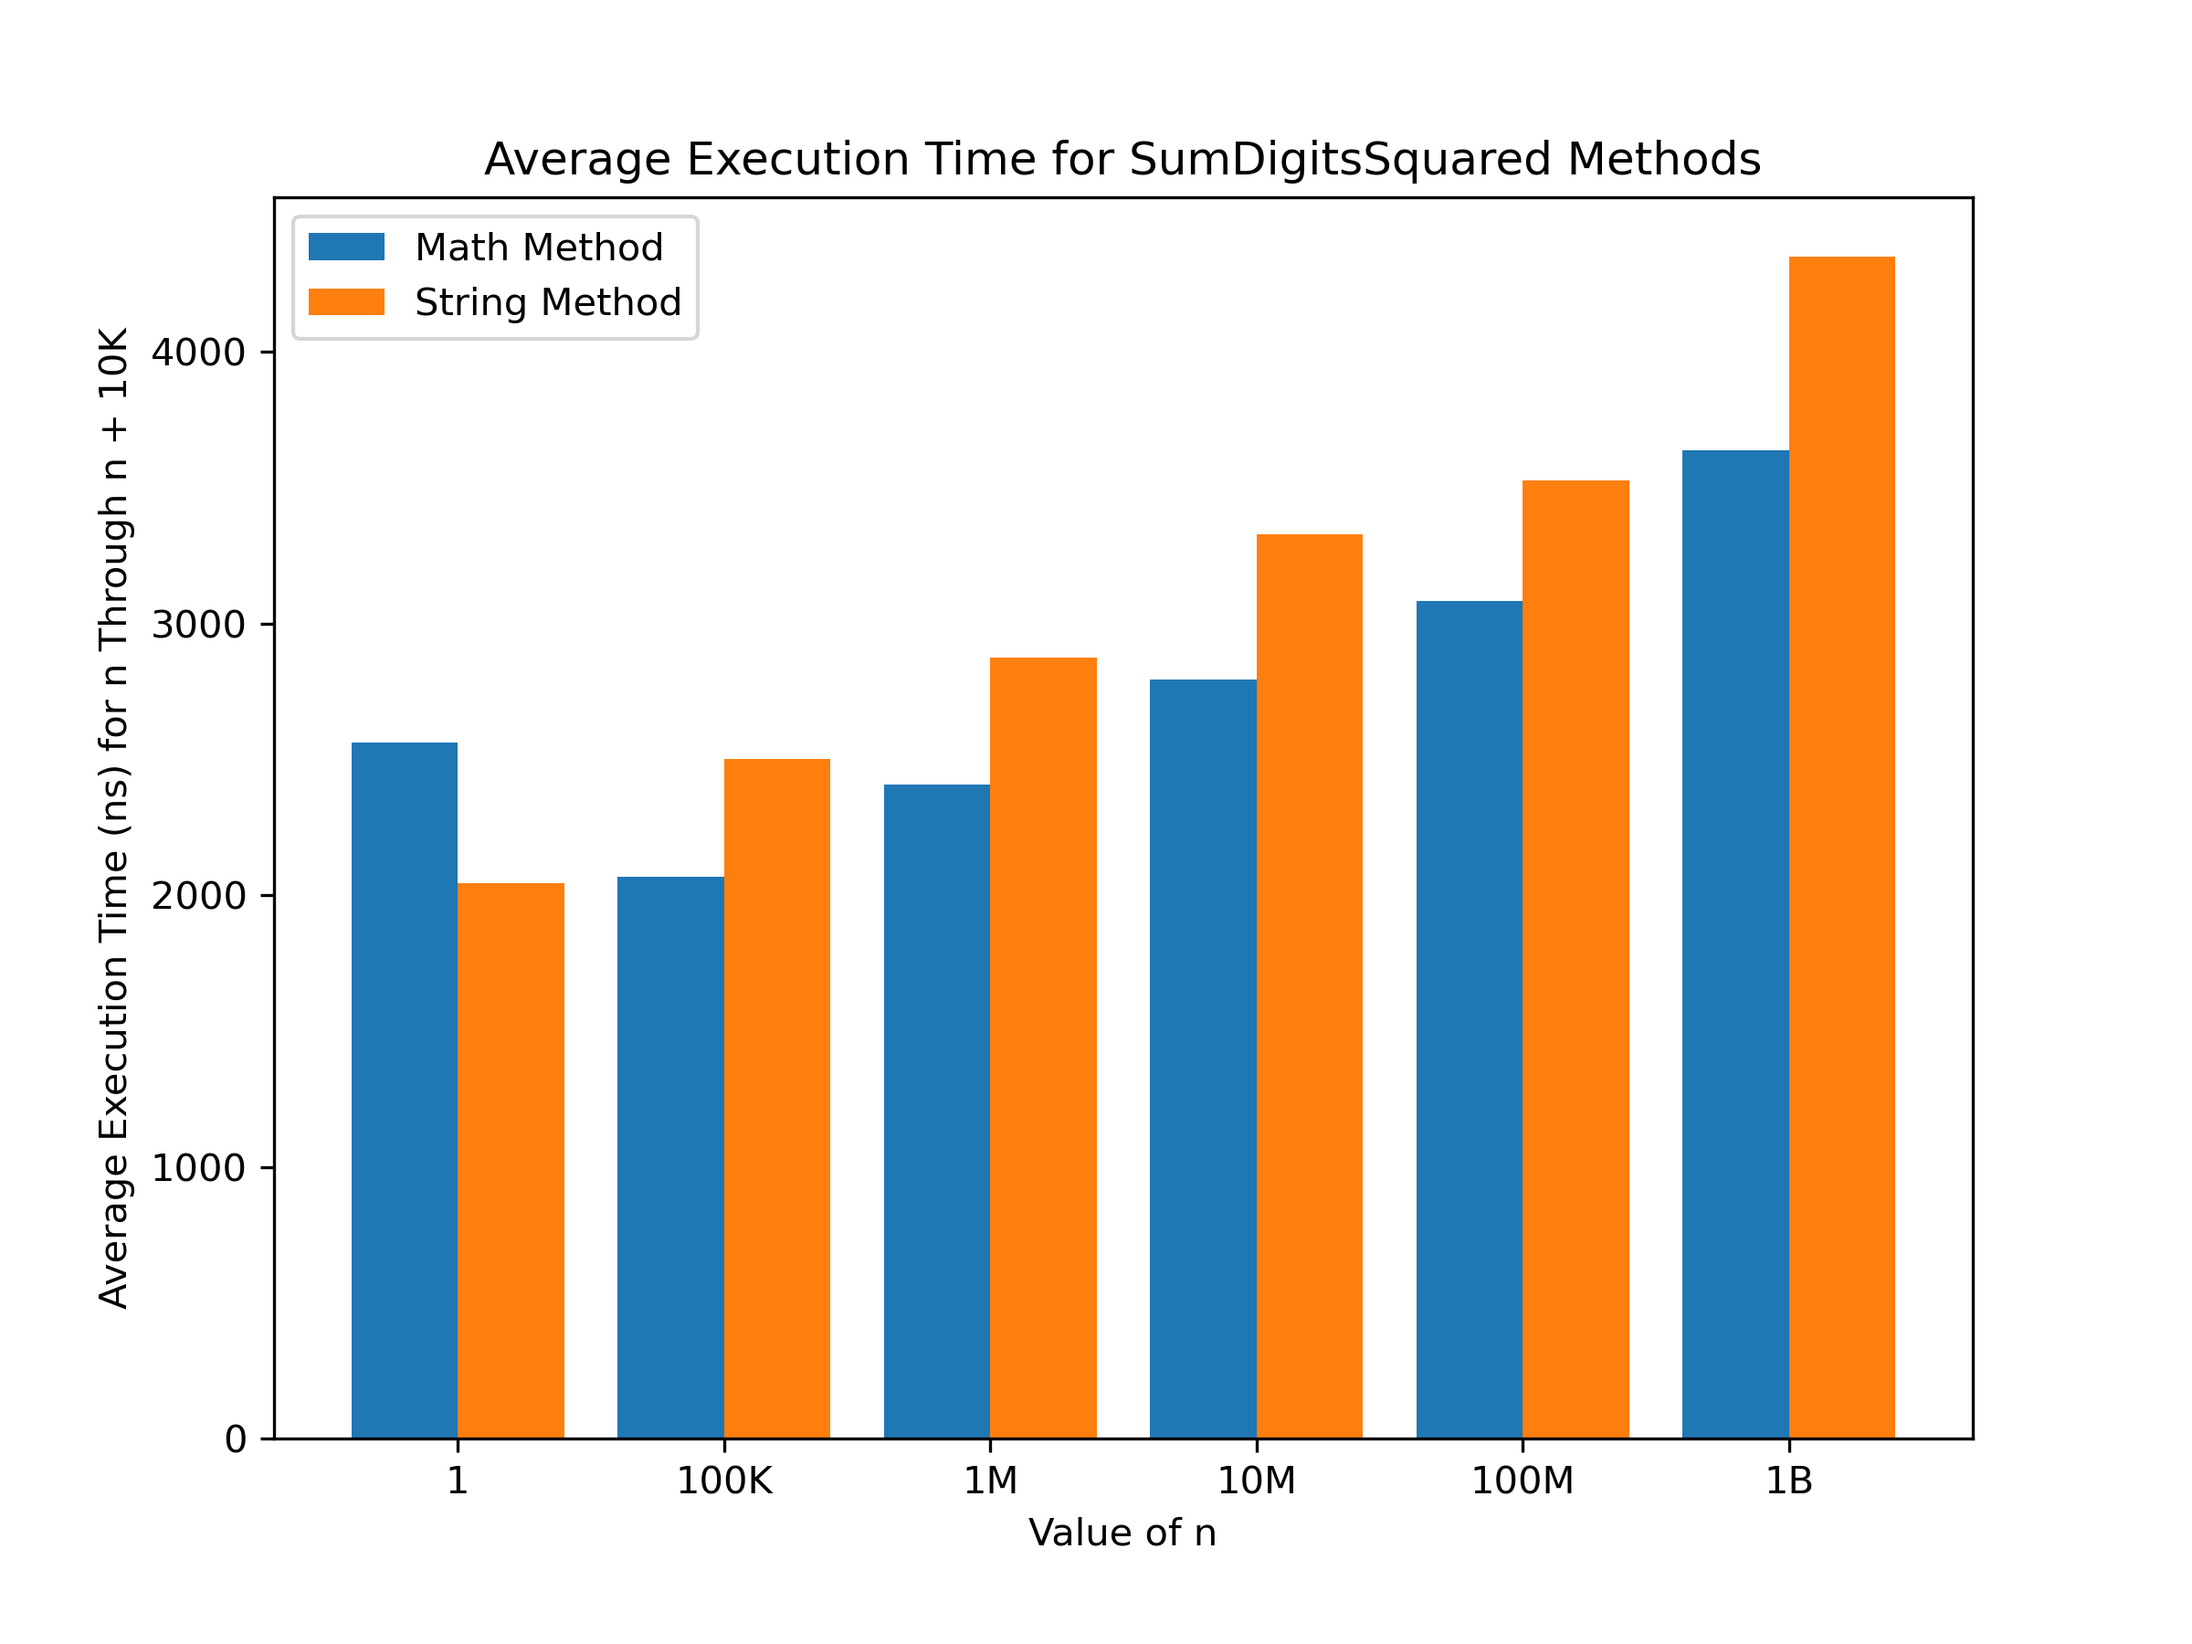
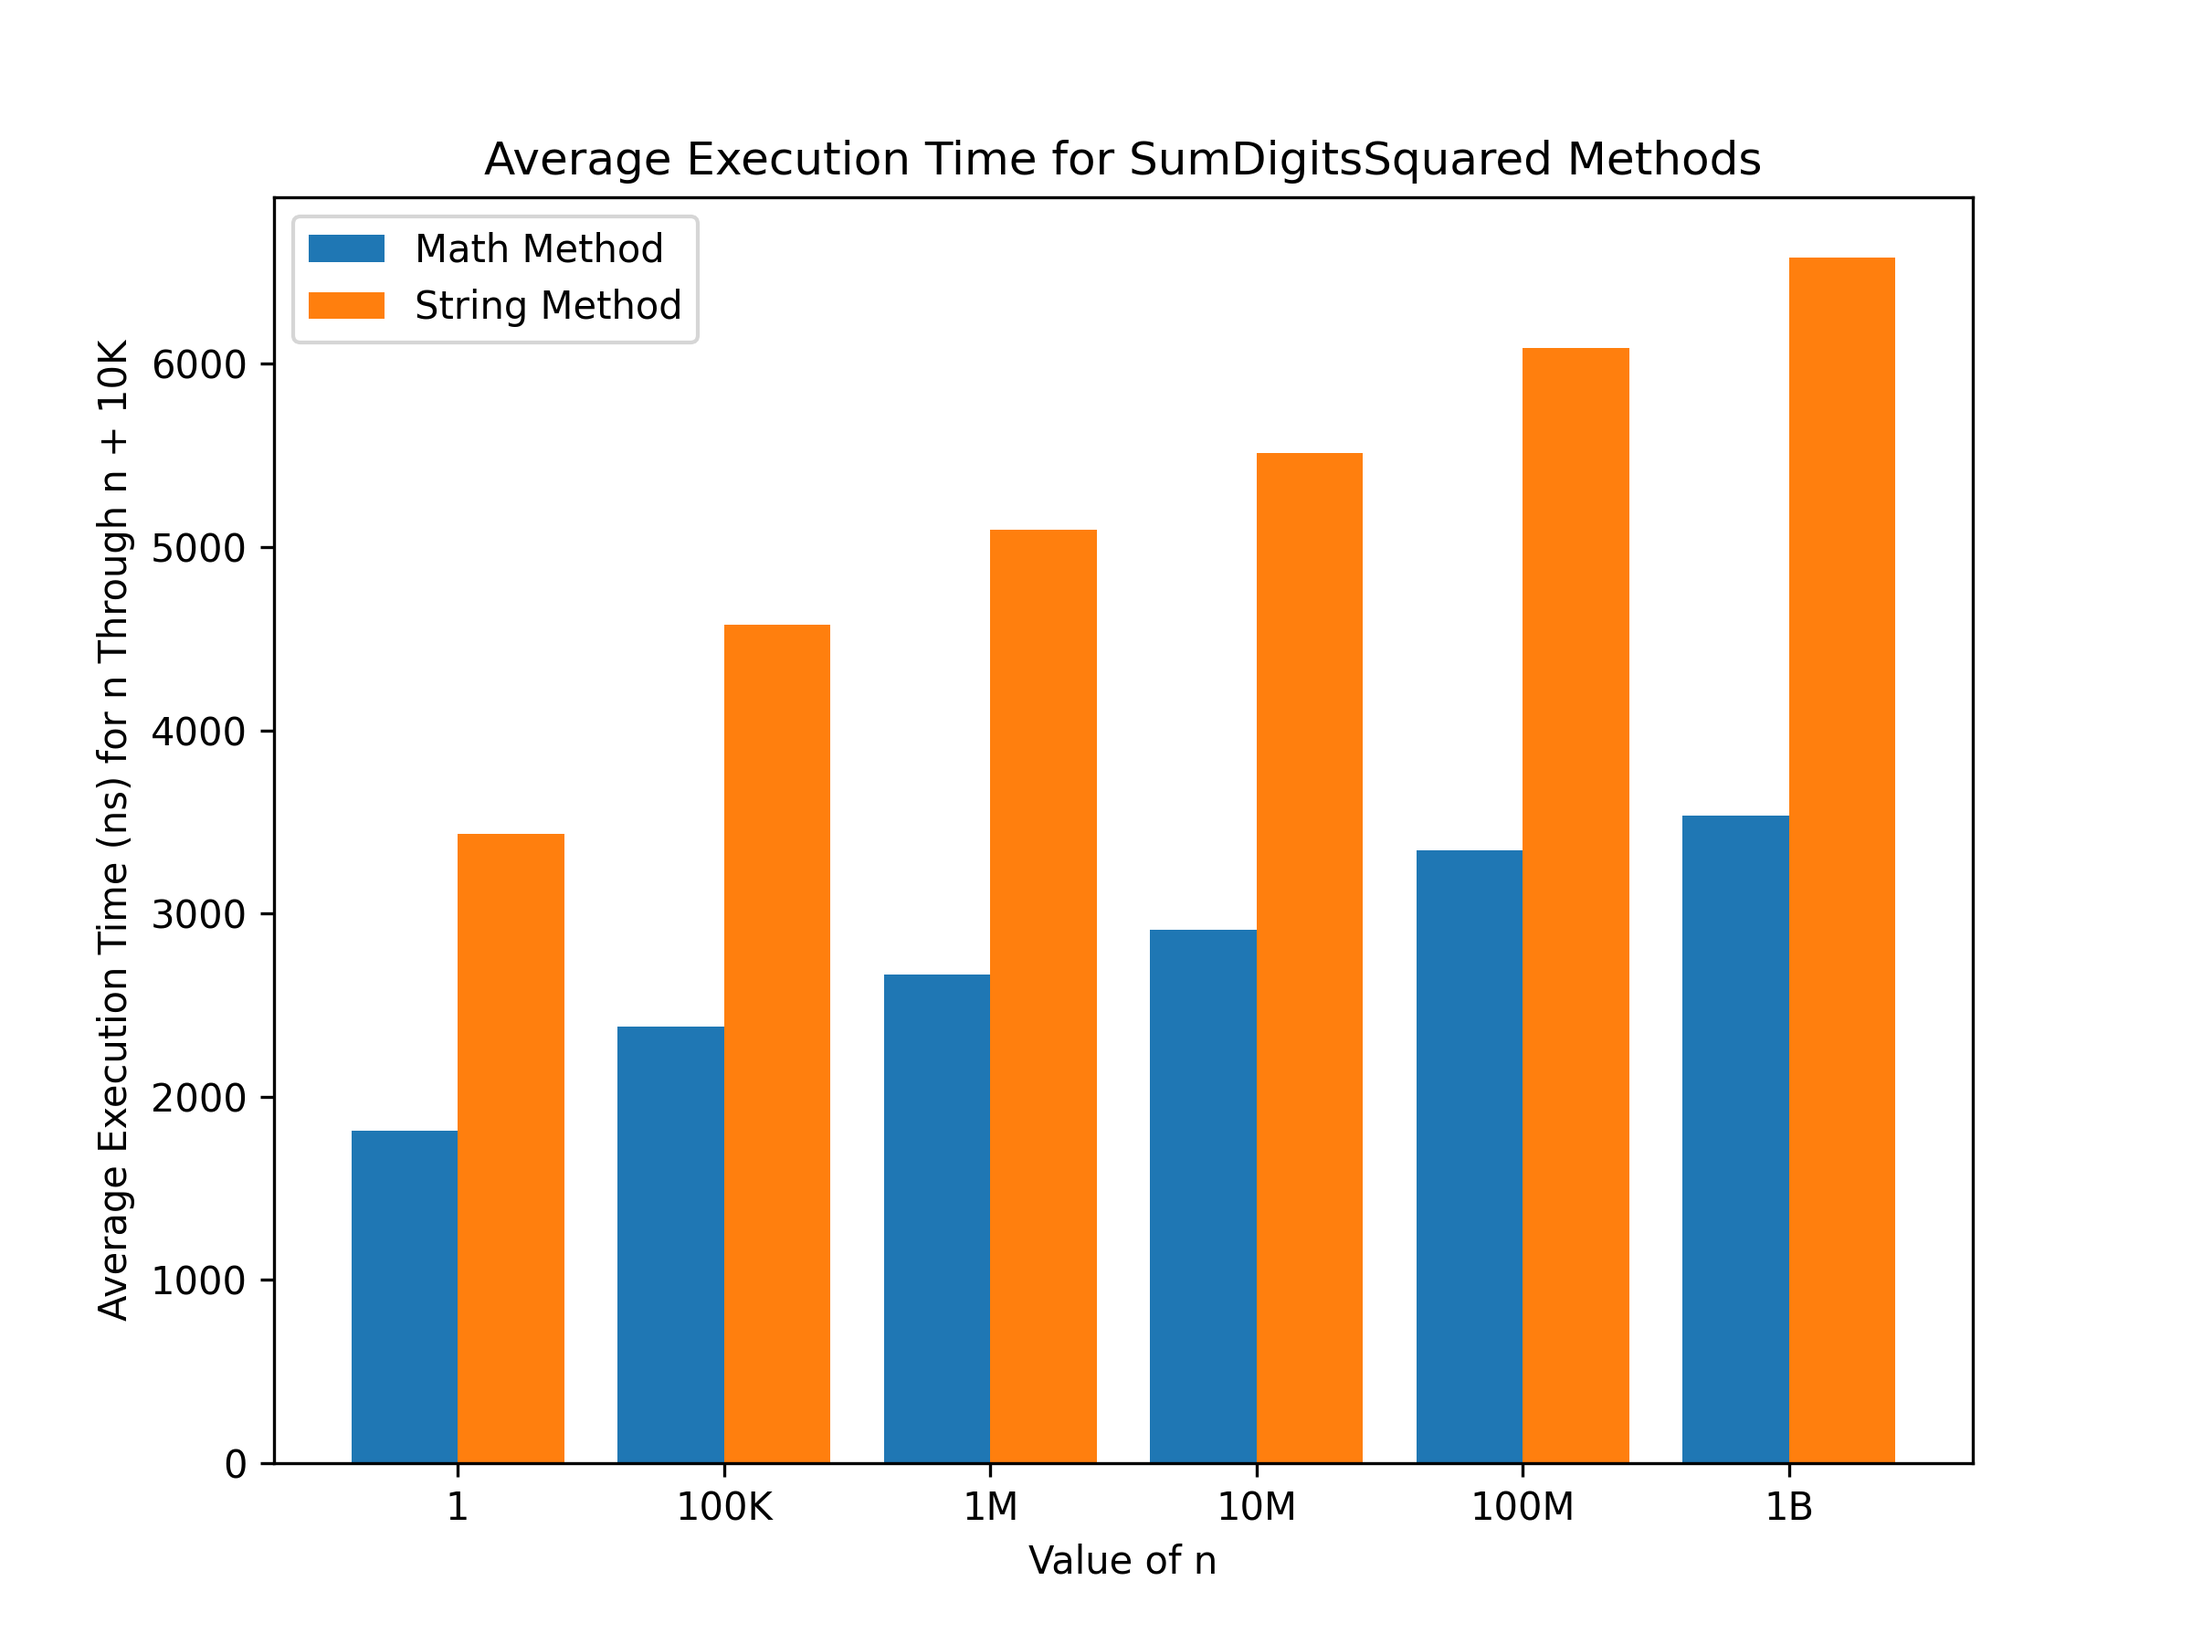
finishing touches

diff --git a/README.md b/README.md
@@ -27,7 +27,7 @@ return sum([int(i) ** 2 for i in str(n)])
 ```
 
 ## Results
-For integers in the 1 to 10K range, the string method is slightly faster. As the integer size increases past 10K, the math method is slightly faster. No significant difference between the methods was observed. Results are generalized and may vary between test runs.
+In some test runs, for integers in the 1 to 10K range, the string method was slightly faster. As the integer size increases past 10K, the math method was consistently faster. Though the math method was usually faster, no significant difference between the methods was observed. Results are generalized and may vary between test runs.
 
 ![Results Graph](./SumDigitsSquaredGraph.png)
 
